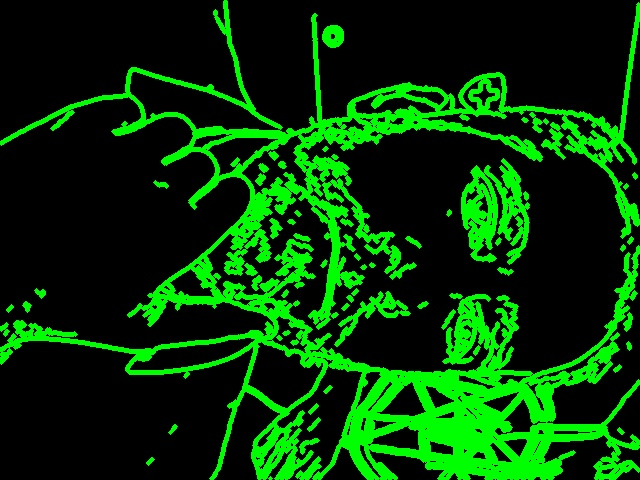
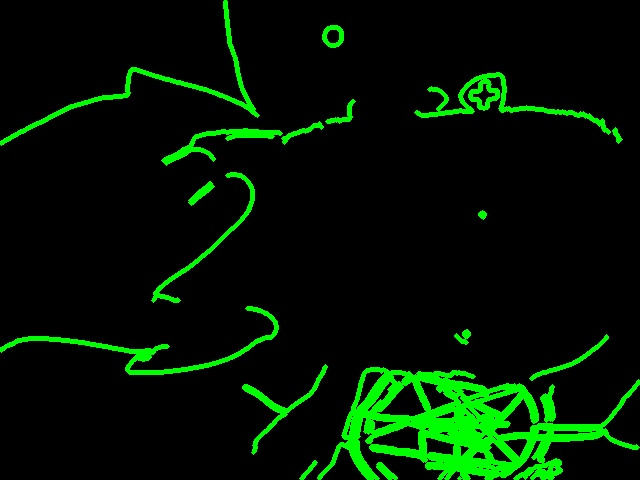
Resizing the image... still lots of repeated points

diff --git a/Beagle/panto.py b/Beagle/panto.py
@@ -35,7 +35,9 @@ APP_STATE = 0
 def nothing(*arg):
     pass
 
-def printContours (contours):
+#TODO: ADD BUTTON TO EXIT AT ANY MOMENT FROM THE APP !!!!!
+
+def printContours (contours, r):
 
     if len(contours) == 0:
         print "ERROR: NO CONTOUR FOUND !!!"
@@ -53,10 +55,13 @@ def printContours (contours):
             # Lift pen, go to first point of the countour, and start drawing
             pantolib.Down()
             [[ x, y ]] = c[0]
-            x_trans = x + x_trans_factor
-            y_trans = -y + y_trans_factor
+            x_resize = int(x*r)
+            y_resize =  int(y*r)
+            print 'x: ', x, 'y:', y, '	--> int(x*r): ', x_resize, ' int(y*r):', y_resize
+            x_trans = x_resize + x_trans_factor
+            y_trans = -y_resize + y_trans_factor
             (q1, q2) = mgi.MGI(x_trans, y_trans)
-            print 'x: ', x, 'y:', y, '	--> x-trans: ', x_trans, 'y_trans:', y_trans, '	--> q1: ', q1, 'q2:', q2
+            print 'x: ', x_resize, 'y:', y_resize, '	--> x-trans: ', x_trans, 'y_trans:', y_trans, '	--> q1: ', q1, 'q2:', q2
             pantolib.GoTo(q1, q2)
             sleep(TIME_BETWEEN_CONTOURS) # Time in seconds.
             pantolib.Up()
@@ -65,10 +70,13 @@ def printContours (contours):
             c = c[1:]
             for p in c:
                 [[ x, y ]] = p
-                x_trans = x + x_trans_factor
-                y_trans = -y + y_trans_factor
+                x_resize = int(x*r)
+                y_resize =  int(y*r)
+                print 'x: ', x, 'y:', y, '	--> int(x*r): ', x_resize, ' int(y*r):', y_resize
+                x_trans = x_resize + x_trans_factor
+                y_trans = -y_resize + y_trans_factor
                 (q1, q2) = mgi.MGI(x_trans, y_trans)
-                print 'x: ', x, 'y:', y, '	--> x-trans: ', x_trans, 'y_trans:', y_trans, '	--> q1: ', q1, 'q2:', q2
+                print 'x: ', x_resize, 'y:', y_resize, '	--> x-trans: ', x_trans, 'y_trans:', y_trans, '	--> q1: ', q1, 'q2:', q2
                 pantolib.GoTo(q1, q2)
                 sleep(TIME_BETWEEN_POINTS) # Time in seconds.
 
@@ -204,7 +212,7 @@ while True:
         #np.savetxt('contour.txt', contour_example)
         #contour = np.load('contour.txt')
 
-        printContours(contours)
+        printContours(contours, r)
 
         img = cv2.imread('printed.jpg')
         cv2.imshow('Printed', img)
